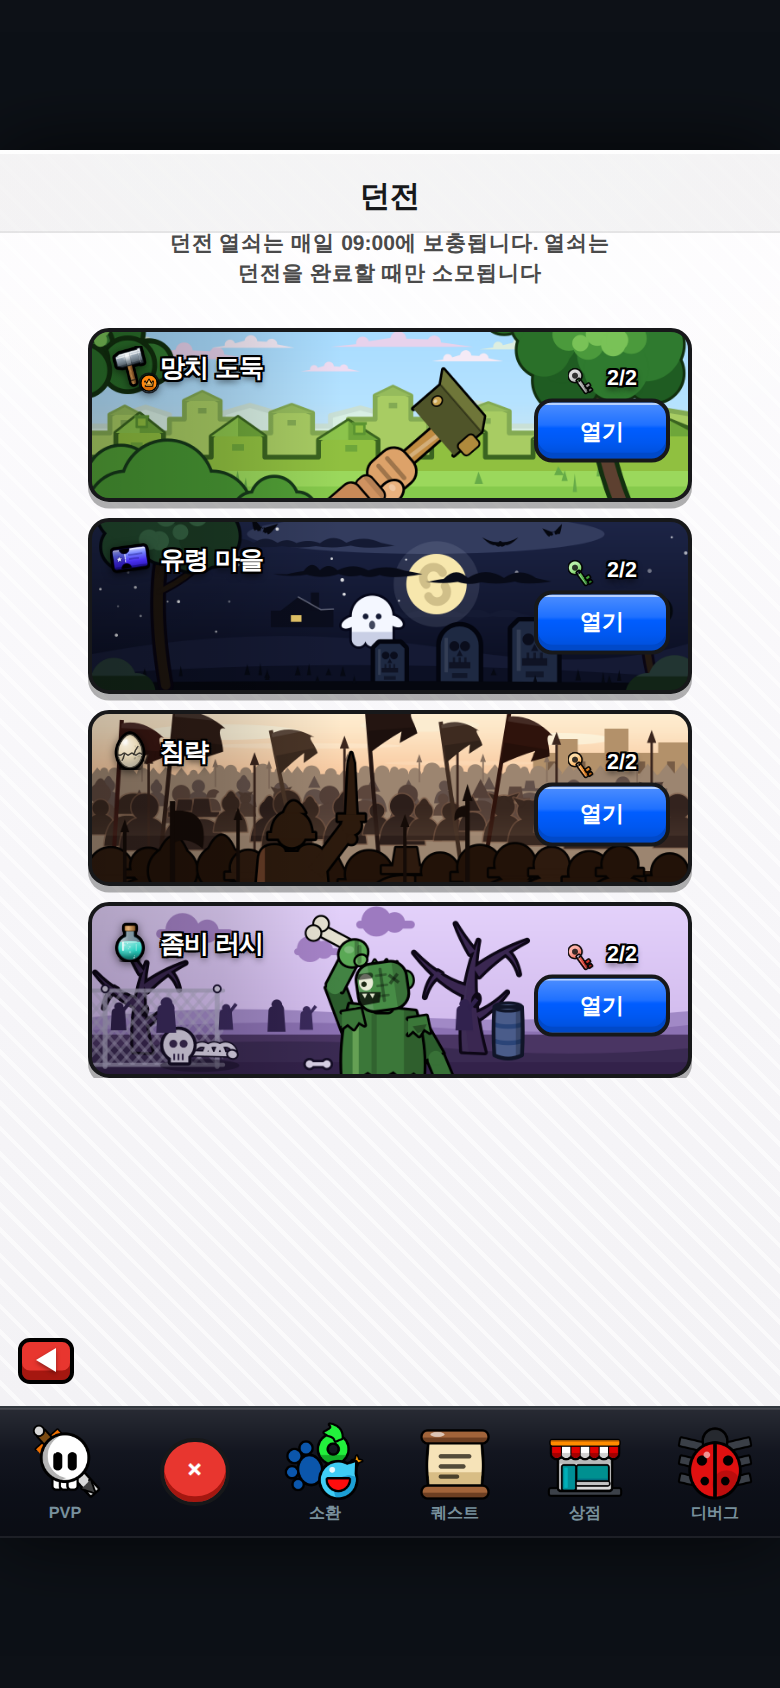
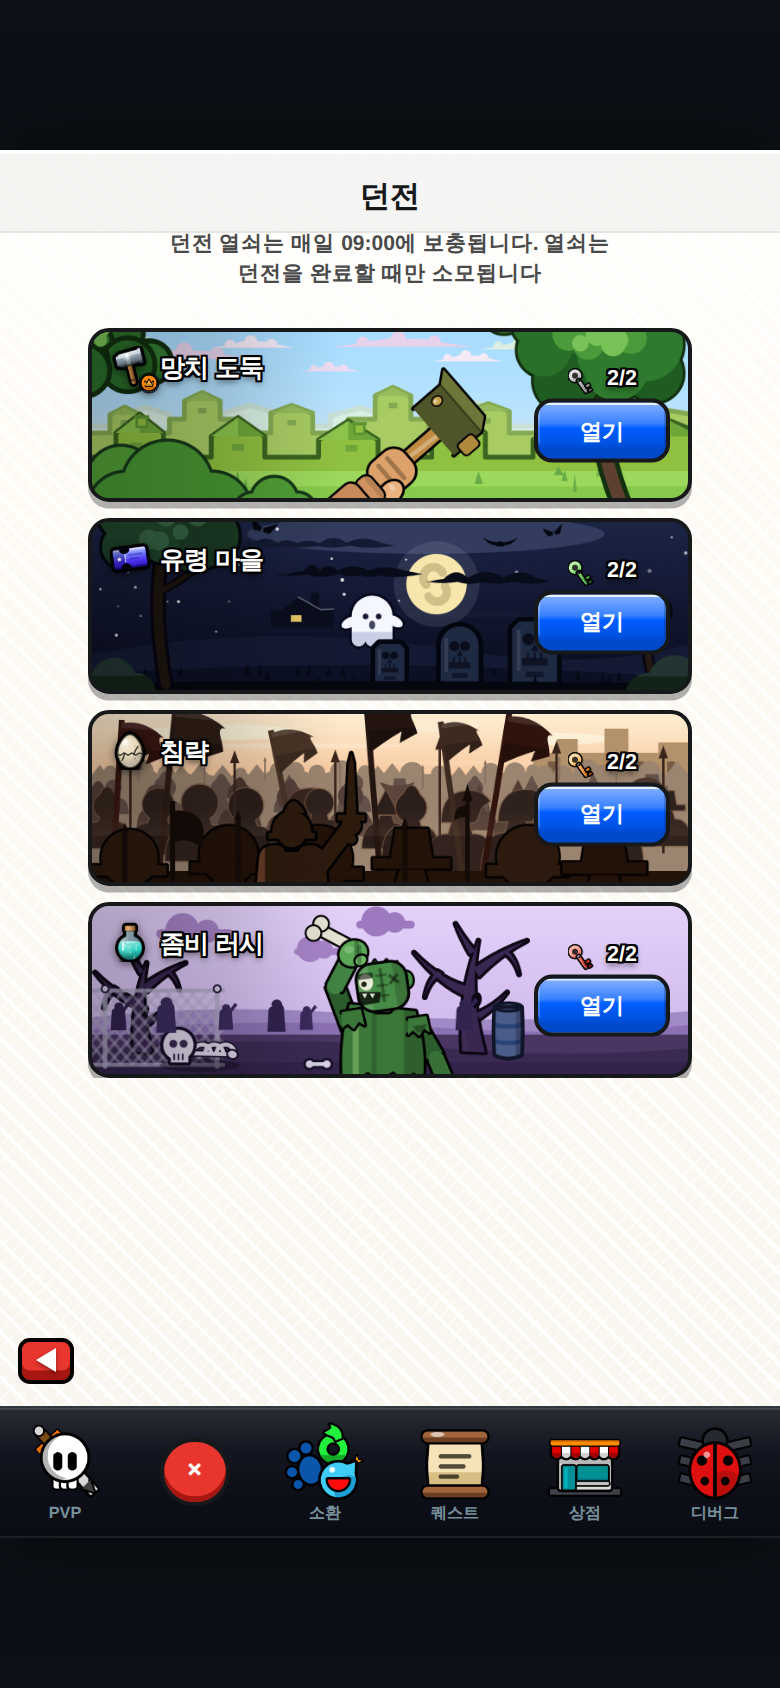
침략 행 군중을 원본 실측 크기·밀도로 — 4라운드 연속 '자갈밭/달걀 더미/바위 무더기' 의 정체는 **인물이 절반 크기라 무리로 안 읽히는 것**이었다(원본 4배 확대 대조로 특정)
원본(shot-042251 3행 확대) 실측: 전경 인물은 **여섯 명**이 카드 폭을 채우고 투구 지름 0.27H(반경 0.134H), 투구 꼭대기가 0.55~0.62H 까지 올라오며, 어깨가 서로 닿아 사이에 **마름모 음영**만 남는다. 클론은 열여섯 명이 반경 0.10H 로 촘촘히 깔려 어깨가 완전히 겹친 연속 띠였다 — 그래서 개체가 안 세어지고 '자갈'로 읽혔다. 중경도 같은 병으로 2.2배 작았다.

■ 인물 수·크기 재배치(원본 밀도로): 전경 16→6명·배율 1.75~2.55→2.85~3.50·y 0.875→0.815H, 중경 위 밴드 16→10명(0.52~1.14→1.00~1.60), 아래 밴드 22→13명(0.66~1.44→1.25~2.00), 반층 14→10명(0.55~0.80→0.85~1.20), 원경 띠 투구 혹 반경 1.4배
■ **목 노치 신설**(R4 인계 ⓐ, 미구현분): `figure()` 어깨를 종(鐘)형 곡선에서 '어깨 마루 → 오목한 계단 → 좁은 목'으로 다시 그렸다. 원본 실루엣의 사람 판정은 이 계단 하나가 세운다 — 곡선 어깨는 크기를 키워도 달걀로 읽힌다
■ 창끝 '↑ 글리프' 오독: 원경 창 촉을 절반(0.048→0.024H), 근경 창 촉 0.075→0.055H 로 줄이고 자루를 0.020→0.028H 로 굵혔다(원본 원경은 민 장대다). 배너 장대도 0.024→0.034H — 원본은 굵은 검정 장대인데 클론은 실오라기라 천만 떠 보였다

검증: probe-dungeon-value 0/48 유지(4행 전부 PASS) · probe-dungeons-px 최대 편차 -1.9%p·초과 0건 · probe-dungeon-title-ink 4행 통과 · probe-screens-errors 31/31 콘솔 0 · node --check 통과 (dungeon-row-quality)

diff --git a/web/js/icongen.js b/web/js/icongen.js
@@ -4222,7 +4222,7 @@ IconGen._genderSym = function (ctx, S, female) {
             let x = 0;
             /* R5 A '균일 반원 = 팝콘 텍스처': 반경·간격 지터 확대 + 서너 개마다 뾰족 투구 혹을 섞는다 */
             while (x < W) {
-                const r = H * (0.022 + R() * 0.034), cy = H * (0.343 + R() * 0.022);
+                const r = H * (0.034 + R() * 0.044), cy = H * (0.343 + R() * 0.022);
                 if (R() < 0.22) { ctx.lineTo(x, cy + r * 0.2); ctx.lineTo(x + r, cy - r * 1.05); ctx.lineTo(x + r * 2, cy + r * 0.2); }
                 else ctx.arc(x + r, cy, r, Math.PI, 0);
                 x += r * (1.5 + R() * 1.1);
@@ -4233,7 +4233,7 @@ IconGen._genderSym = function (ctx, S, female) {
             for (let i = 0; i < 8; i++) {
                 const px = W * (0.05 + i * 0.118 + R() * 0.04), top = H * (0.285 + R() * 0.05);
                 fill(ctx, '#87705f', () => ctx.rect(px, top, H * 0.009, H * 0.115));
-                fill(ctx, '#87705f', () => { ctx.moveTo(px - H * 0.013, top); ctx.lineTo(px + H * 0.004, top - H * 0.048); ctx.lineTo(px + H * 0.021, top); ctx.closePath(); });
+                fill(ctx, '#87705f', () => { ctx.moveTo(px - H * 0.006, top); ctx.lineTo(px + H * 0.004, top - H * 0.024); ctx.lineTo(px + H * 0.014, top); ctx.closePath(); });
             }
         })();
         /* 인물 한 명 — 머리(kind 0=둥근 투구 1=뾰족 투구 2=뿔 투구) + 어깨. oc 를 주면 검정
@@ -4271,15 +4271,23 @@ IconGen._genderSym = function (ctx, S, female) {
                 paths.push(() => { ctx.moveTo(x - r * 0.58, y - r * 0.72); ctx.quadraticCurveTo(x + r * 0.05, y - r * 2.15, x + r * 0.62, y - r * 0.72); ctx.closePath(); });
             if (kind === 6)                                                // R4: 둥근 투구 돔 + 넓은 챙 — 전경 '삼각 융기=산맥' 오독(2인 공통) 해소용 기본 종
                 paths.push(() => ctx.rect(x - r * 1.32, y + r * 0.26, r * 2.64, r * 0.36));
-            paths.push(() => { ctx.moveTo(x - r * w, y + r * 3.2); ctx.quadraticCurveTo(x - r * (w - 0.2), y + r * 0.7, x, y + r * 0.75); ctx.quadraticCurveTo(x + r * (w - 0.2), y + r * 0.7, x + r * w, y + r * 3.2); ctx.closePath(); });   // 어깨(넓고 낮게)
+            paths.push(() => {                                             // 어깨(넓고 낮게) + 목 노치
+                ctx.moveTo(x - r * w, y + r * 3.2);
+                ctx.quadraticCurveTo(x - r * (w - 0.10), y + r * 1.18, x - r * 0.64, y + r * 1.24);   // 어깨 마루
+                ctx.lineTo(x - r * 0.44, y + r * 0.60);                    // 목 좌 — 오목한 계단
+                ctx.lineTo(x + r * 0.44, y + r * 0.60);                    // 목 우
+                ctx.lineTo(x + r * 0.64, y + r * 1.24);
+                ctx.quadraticCurveTo(x + r * (w - 0.10), y + r * 1.18, x + r * w, y + r * 3.2);
+                ctx.closePath();
+            });
             if (oc) {
                 ctx.strokeStyle = oc; ctx.lineWidth = ow || H * 0.016; ctx.lineJoin = 'round';
                 paths.forEach(p => { ctx.beginPath(); p(); ctx.stroke(); });
             }
             paths.forEach(p => fill(ctx, c, p));
         };
-        for (let i = 0; i < 14; i++)                                       // 원경-중경 사이 반층 — 레이어 한 겹 더(비평가 5차)
-            figure(W * (i / 14 + 0.015 + R() * 0.03), H * (0.415 + R() * 0.04), 0.55 + R() * 0.25, '#63514a', [0, 1, 1, 4, 5, 0][(R() * 6) | 0]);   // R7 2인 공통 '균일 돔 반복': 원경 반층에도 투구 변주
+        for (let i = 0; i < 10; i++)                                       // 원경-중경 사이 반층 — 레이어 한 겹 더(비평가 5차)
+            figure(W * (i / 10 + 0.015 + R() * 0.03), H * (0.415 + R() * 0.04), 0.85 + R() * 0.35, '#63514a', [0, 1, 1, 4, 5, 0][(R() * 6) | 0]);   // R7 2인 공통 '균일 돔 반복': 원경 반층에도 투구 변주
         /* 중간 열 — 뒤(#cdb094)와 앞(#241612) 사이의 **명도 중간층**이라 밝은 모브 계열이어야
            대기원근 3단이 선다(비평가 4차 '단일 톤 플랫 매스'). 뿔 투구는 1/8 로 드물게. */
         /* 중경을 명도 2단으로 분리(2차 재채점 2인 공통 '동일 명도 블롭 뭉개짐'):
@@ -4293,10 +4301,10 @@ IconGen._genderSym = function (ctx, S, female) {
         /* R1 비평가 2인 공통 '중경 군중 뭉개짐/외곽선 부재': 아래 밴드에 어두운 갈색 얇은 윤곽을
            둘러 인물 한 명 한 명이 분절되게 한다(검정이면 전경 열과 층이 안 갈리므로 톤 윤곽).
            밀도도 한 단 올린다(성겨서 '대군'의 압박감이 약하다는 공통 지적). */
-        for (let i = 0; i < 16; i++)                                       // 위 밴드(밝게)
-            figure(W * (i / 16 - 0.004 + R() * 0.036), H * (0.468 + R() * 0.045), 0.52 + R() * 0.62, MIDC_HI[(R() * 4) | 0], pickKind(R()));
-        for (let i = 0; i < 22; i++)                                       // 아래 밴드(기존 명도 + 톤 윤곽)
-            figure(W * (i / 22 - 0.004 + R() * 0.033), H * (0.523 + R() * 0.060), 0.66 + R() * 0.78, MIDC[(R() * 4) | 0], pickKind(R()), 'rgba(120,86,66,.60)');   // 근흑 채움 위 어두운 윤곽은 안 보인다 — 윤곽을 채움보다 **밝게** 뒤집어 분절을 살린다
+        for (let i = 0; i < 10; i++)                                       // 위 밴드(밝게)
+            figure(W * (i / 10 - 0.004 + R() * 0.055), H * (0.468 + R() * 0.045), 1.00 + R() * 0.60, MIDC_HI[(R() * 4) | 0], pickKind(R()));
+        for (let i = 0; i < 13; i++)                                       // 아래 밴드(기존 명도 + 톤 윤곽)
+            figure(W * (i / 13 - 0.004 + R() * 0.050), H * (0.523 + R() * 0.060), 1.25 + R() * 0.75, MIDC[(R() * 4) | 0], pickKind(R()), 'rgba(120,86,66,.60)');   // 근흑 채움 위 어두운 윤곽은 안 보인다 — 윤곽을 채움보다 **밝게** 뒤집어 분절을 살린다
         // 창 — 군중 사이에서 올라오는 자루+창끝
         for (let i = 0; i < 6; i++) {
             const x = W * (0.06 + i * 0.17 + R() * 0.05), top = H * (0.18 + R() * 0.14);
@@ -4307,7 +4315,7 @@ IconGen._genderSym = function (ctx, S, female) {
            '검은 덩어리 천지'가 된다(1차 시안) — 폭을 줄이고 찢김은 얕게, 넉 장만. */
         const banner = (x, top, wd, ht, tilt, c) => {
             ctx.save(); ctx.translate(x, top); ctx.rotate(tilt);
-            fill(ctx, c, () => ctx.rect(-H * 0.012, 0, H * 0.024, H * 1.05));
+            fill(ctx, c, () => ctx.rect(-H * 0.017, 0, H * 0.034, H * 1.05));
             const cloth = () => {                   // 천에는 곡률(펄럭임) — 직선 삼각형이면 정적으로 죽는다(비평가 재채점)
                 ctx.moveTo(0, H * 0.02);
                 ctx.quadraticCurveTo(wd * 0.50, -H * 0.015, wd, H * 0.09);
@@ -4342,11 +4350,11 @@ IconGen._genderSym = function (ctx, S, female) {
            투구 단서 있는 종(뾰족·뿔·볏·챙)만 뽑는다 — 사람 단서가 실루엣에 최소 1개씩 실린다.
            ⑵ 채움을 한 단 밝혀(#241612→#2b1a12 계열) 근흑 키라인(#050302)이 갈리게 한다 —
            종전엔 채움·키라인이 다 근흑이라 윤곽 정보가 0이었다. */
-        for (let i = 0; i < 16; i++) {
+        for (let i = 0; i < 6; i++) {
             /* R4 비평가 2인 공통 '전경이 삼각형 산/바위로 읽힘': 사람 단서는 **둥근 투구 돔+챙**
                (kind 6)이 즉독이라 6을 주종(과반)으로, 뾰족·볏·챙은 악센트로만(민머리 0 금지 유지,
                병렬 R3 '뿔=고양이 귀' — 뿔 종(kind 2)도 제외 유지). */
-            figure(W * (i / 16 + 0.010 + R() * 0.025), H * (0.875 + R() * 0.08), 1.75 + R() * 0.8, i % 4 ? '#221208' : '#2d1a0e', [6, 6, 4, 6, 5, 1][(R() * 6) | 0], '#050302', 1.9 + R() * 0.8, H * 0.026);   // R6 B '전경 틈 제거'(밀도·어깨폭 업) · 머리가 하단 크롭에 잘리면 삼각 톱니로 읽힌다 — 0.875H · R2 공통: 전경 키라인 굵기 통일
+            figure(W * (i / 6 + 0.020 + R() * 0.045), H * (0.815 + R() * 0.05), 2.85 + R() * 0.65, i % 4 ? '#221208' : '#2d1a0e', [6, 6, 4, 6, 5, 1][(R() * 6) | 0], '#050302', 1.9 + R() * 0.8, H * 0.026);   // R6 B '전경 틈 제거'(밀도·어깨폭 업) · 머리가 하단 크롭에 잘리면 삼각 톱니로 읽힌다 — 0.875H · R2 공통: 전경 키라인 굵기 통일
         }
         /* 근경 주역 1기(R1 A·B 공통 '초점 부재' → R2 A2·B2 공통 '주역이 배경에 묻힘 + 이 행만
            무키라인'): 다른 행 주인공 문법으로 **승격** — 근흑 키라인 + 채움 명도 분리 + 노을
@@ -4437,8 +4445,8 @@ IconGen._genderSym = function (ctx, S, female) {
                실루엣 위에 직접 세운다. 장수(0.335W+검 0.435W)·도끼(0.135W)·미늘창(0.63W)과
                겹치지 않는 자리, 높이는 제각각. */
             [[0.055, 0.70], [0.245, 0.63], [0.525, 0.67]].forEach(([px, ptop]) => {
-                pole(W * px, H * ptop, H * 1.0, H * 0.020);
-                fill(ctx, c, () => { ctx.moveTo(W * px - H * 0.026, H * ptop); ctx.lineTo(W * px, H * (ptop - 0.075)); ctx.lineTo(W * px + H * 0.026, H * ptop); ctx.closePath(); });
+                pole(W * px, H * ptop, H * 1.0, H * 0.028);
+                fill(ctx, c, () => { ctx.moveTo(W * px - H * 0.020, H * ptop); ctx.lineTo(W * px, H * (ptop - 0.055)); ctx.lineTo(W * px + H * 0.020, H * ptop); ctx.closePath(); });
             });
         })();
     };
